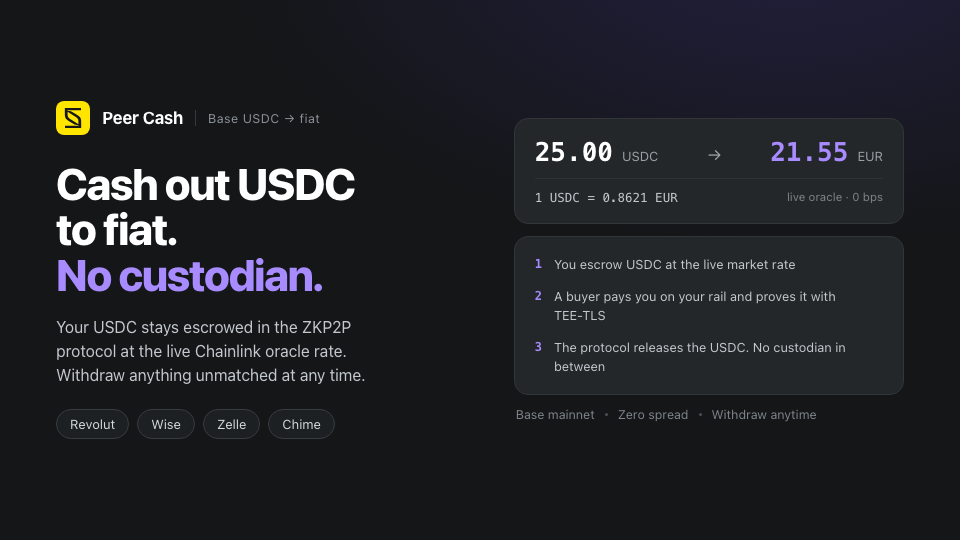
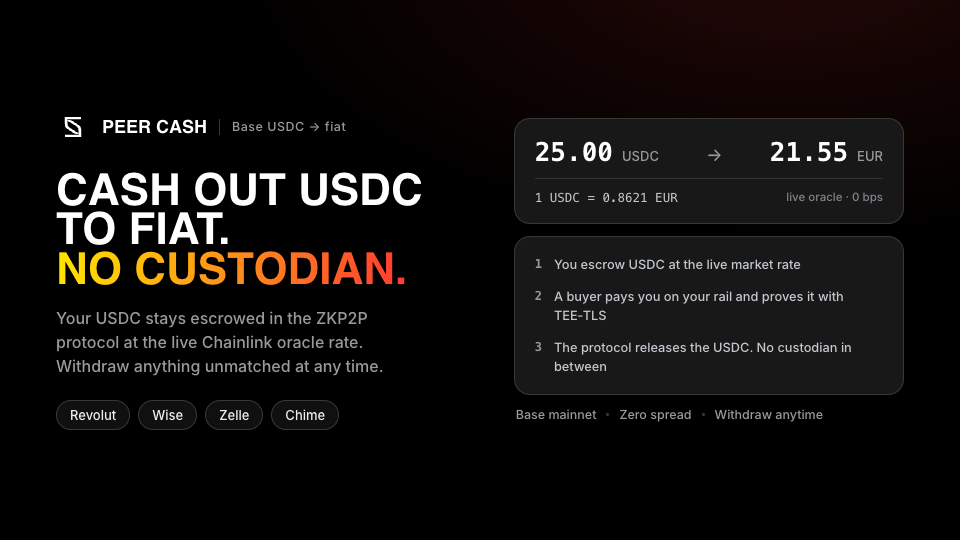
feat: peer-brand the submission frames, add an og image, single primary cta

diff --git a/submission/frames/og.html b/submission/frames/og.html
@@ -1,0 +1,52 @@
+<!doctype html>
+<html lang="en"><head><meta charset="utf-8">
+<style>
+  @font-face { font-family:'Inter'; src:url('../../packages/site/static/fonts/Inter-Medium.woff2') format('woff2'); font-weight:500; }
+  @font-face { font-family:'Inter'; src:url('../../packages/site/static/fonts/Inter-SemiBold.woff2') format('woff2'); font-weight:600; }
+  * { box-sizing:border-box; margin:0; padding:0; }
+  html, body { width:1200px; height:630px; overflow:hidden; }
+  body {
+    background:#000000; color:#FFFFFF;
+    font-family:'Inter', -apple-system, sans-serif; font-weight:500;
+    -webkit-font-smoothing:antialiased; position:relative;
+  }
+  body::after {
+    content:""; position:absolute; inset:0;
+    background:radial-gradient(1100px 600px at 88% -12%, rgba(255,58,51,.16), transparent 62%);
+  }
+  .frame { position:relative; z-index:1; width:1200px; height:630px; padding:72px; display:flex; flex-direction:column; }
+  .brand { display:flex; align-items:center; gap:16px; }
+  .mark { width:44px; height:44px; border-radius:10px; }
+  .name { font-size:22px; font-weight:600; text-transform:uppercase; letter-spacing:.06em; }
+  h1 { font-size:76px; line-height:.98; font-weight:600; text-transform:uppercase; letter-spacing:-.01em; margin-top:56px; max-width:16ch; }
+  .accent { background:linear-gradient(90deg,#FFE500,#FF3A33); -webkit-background-clip:text; background-clip:text; color:transparent; }
+  .lede { font-size:24px; line-height:1.45; color:#9A9A9A; max-width:44ch; margin-top:28px; }
+  .spacer { flex:1; }
+  .rails { display:flex; gap:10px; }
+  .chip { font-size:17px; padding:8px 18px; border-radius:999px; border:1px solid #383838; color:#EEEEEE; background:#101010; }
+</style>
+</head>
+<body><div class="frame">
+
+  <div class="brand">
+    <img class="mark" src="icon.svg" alt="">
+    <span class="name">Peer Cash</span>
+  </div>
+
+  <h1>Cash out USDC <span class="accent">without a custodian</span></h1>
+
+  <p class="lede">
+    Escrow Base USDC in the ZKP2P protocol and get paid on a fiat rail you
+    already use, at the live oracle rate.
+  </p>
+
+  <div class="spacer"></div>
+
+  <div class="rails">
+    <span class="chip">Revolut</span>
+    <span class="chip">Wise</span>
+    <span class="chip">Zelle</span>
+    <span class="chip">Chime</span>
+  </div>
+
+</div></body></html>

diff --git a/submission/frames/1.html b/submission/frames/1.html
@@ -35,7 +35,7 @@
         </div>
         <span class="muted" style="font-size:17px">&rarr;</span>
         <div style="display:flex; align-items:baseline; gap:9px">
-          <span class="mono" style="font-size:26px; font-weight:700; color:#A78BFF">21.55</span>
+          <span class="mono" style="font-size:26px; font-weight:700">21.55</span>
           <span class="muted" style="font-size:13px">EUR</span>
         </div>
       </div>
@@ -47,15 +47,15 @@
 
     <div class="panel" style="padding:18px 20px; display:flex; flex-direction:column; gap:13px">
       <div style="display:flex; gap:12px; align-items:flex-start">
-        <span class="mono" style="color:#A78BFF; font-size:12px; font-weight:700; padding-top:2px">1</span>
+        <span class="mono step" style="font-size:12px; font-weight:600; padding-top:2px">1</span>
         <span class="note" style="color:#C3C8CE">You escrow USDC at the live market rate</span>
       </div>
       <div style="display:flex; gap:12px; align-items:flex-start">
-        <span class="mono" style="color:#A78BFF; font-size:12px; font-weight:700; padding-top:2px">2</span>
+        <span class="mono step" style="font-size:12px; font-weight:600; padding-top:2px">2</span>
         <span class="note" style="color:#C3C8CE">A buyer pays you on your rail and proves it with TEE&#8209;TLS</span>
       </div>
       <div style="display:flex; gap:12px; align-items:flex-start">
-        <span class="mono" style="color:#A78BFF; font-size:12px; font-weight:700; padding-top:2px">3</span>
+        <span class="mono step" style="font-size:12px; font-weight:600; padding-top:2px">3</span>
         <span class="note" style="color:#C3C8CE">The protocol releases the USDC. No custodian in between</span>
       </div>
     </div>

diff --git a/submission/frames/2.html b/submission/frames/2.html
@@ -17,11 +17,11 @@
 
     <div style="margin-top:24px; display:flex; flex-direction:column; gap:11px">
       <div style="display:flex; gap:11px; align-items:flex-start">
-        <span class="mono" style="color:#A78BFF; font-size:12.5px; font-weight:700; padding-top:1px">1</span>
+        <span class="mono step" style="font-size:12.5px; font-weight:600; padding-top:1px">1</span>
         <span class="note" style="color:#C3C8CE">The snap shows amount, rail, payee and a live estimate</span>
       </div>
       <div style="display:flex; gap:11px; align-items:flex-start">
-        <span class="mono" style="color:#A78BFF; font-size:12.5px; font-weight:700; padding-top:1px">2</span>
+        <span class="mono step" style="font-size:12.5px; font-weight:600; padding-top:1px">2</span>
         <span class="note" style="color:#C3C8CE">MetaMask confirms every transaction in the plan</span>
       </div>
     </div>
@@ -37,7 +37,7 @@
     <div style="background:#1B1E21; border:1px solid #2F3336; border-radius:10px; padding:4px 14px">
       <div class="row"><span class="k">Amount</span><span class="v mono">25 USDC</span></div>
       <div class="row"><span class="k">revolut &rarr; EUR</span><span class="v mono">@peer-demo</span></div>
-      <div class="row"><span class="k">Estimated payout</span><span class="v mono" style="color:#A78BFF">&asymp; 21.55 EUR</span></div>
+      <div class="row"><span class="k">Estimated payout</span><span class="v mono">&asymp; 21.55 EUR</span></div>
     </div>
 
     <div class="note">

diff --git a/packages/site/src/components/Buttons.tsx b/packages/site/src/components/Buttons.tsx
@@ -132,16 +132,19 @@ export const ReconnectButton = (
   );
 };
 
+/**
+ * The header carries identity and connection status, not a call to action.
+ * Until the snap is installed the hero owns the single primary action, so the
+ * header stays empty rather than repeating it.
+ *
+ * @returns The header's right-hand control, or null before install.
+ */
 export const HeaderButtons = () => {
   const requestSnap = useRequestSnap();
-  const { isFlask, installedSnap } = useMetaMask();
-
-  if (!isFlask && !installedSnap) {
-    return <InstallFlaskButton />;
-  }
+  const { installedSnap } = useMetaMask();
 
   if (!installedSnap) {
-    return <ConnectButton onClick={requestSnap} />;
+    return null;
   }
 
   if (shouldDisplayReconnectButton(installedSnap)) {

diff --git a/submission/frames/3.html b/submission/frames/3.html
@@ -48,7 +48,7 @@
         <span class="muted" style="font-size:13px; margin-left:6px">via revolut &rarr; EUR</span>
       </div>
       <div style="height:5px; border-radius:3px; background:#2F3336; overflow:hidden">
-        <div style="width:65.1%; height:100%; background:#7FD98F"></div>
+        <div style="width:65.1%; height:100%; background:var(--success)"></div>
       </div>
       <div class="note">37.658178 USDC of 57.85 USDC has been delivered; the rest is locked by an active buyer.</div>
     </div>
